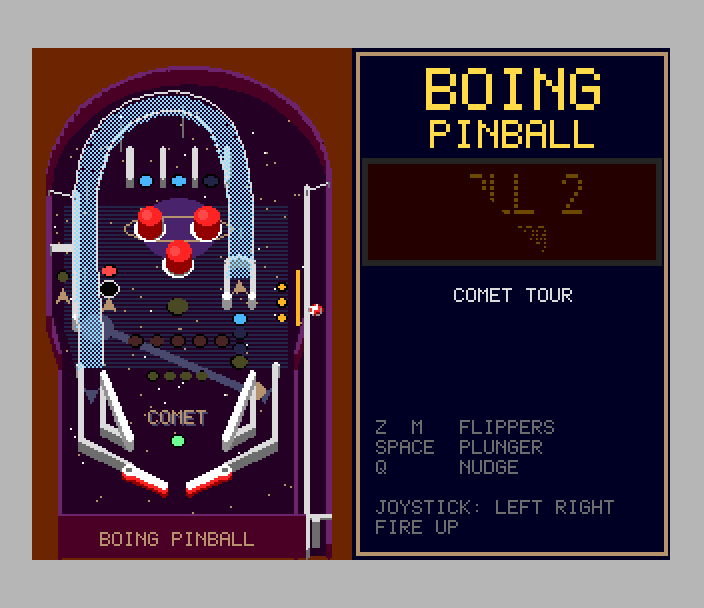
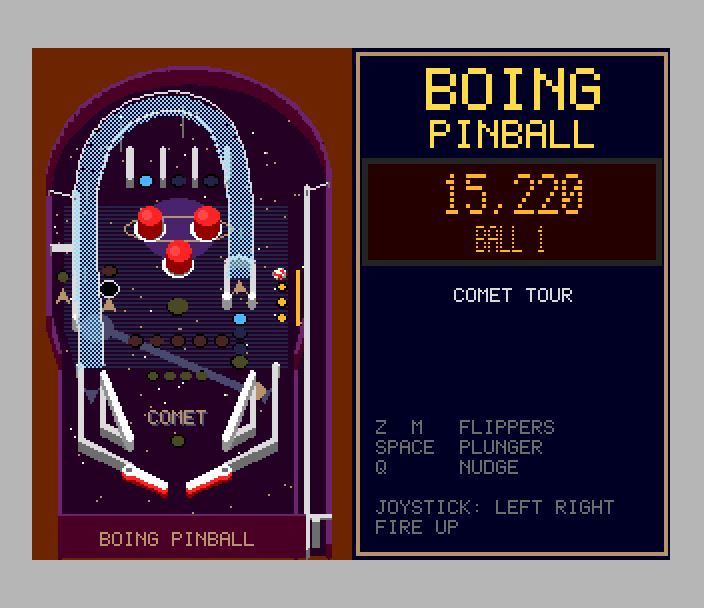
Boing Pinball: the dot-matrix display is never seen half drawn; selftest guards against name-based kills
- the display is drawn per pixel column, only changed columns (signatures
  computed when the text changes, no divisions), at most 16 a frame right
  after the interrupt: 87K T-states at most, done before the beam reaches
  row 58 (it was ~1M T-states, 2 frames, every score change); flashing is
  a palette entry
- ./zx selftest fails on pkill/killall in the harness and scripts (they
  only ever stop their own Popen, after checking the ZRCP port's pid)

diff --git a/projects/boing_pinball/src/front.c b/projects/boing_pinball/src/front.c
@@ -51,27 +51,110 @@ struct {
 
 /* ------------------------------------------------------------ the display */
 
-static char shown_big[24], shown_small[40];
-static uint8_t shown_col;
+/* The original's draw_dmd (one big line, or a big and a small one), drawn
+   a pixel column at a time: each column's dots are compared with what it
+   shows, only changed columns are drawn, at most DMD_BUDGET a frame, right
+   after the frame's interrupt (the beam is above the display then). A
+   score change redraws a few digits; a new message wipes in over a few
+   frames instead of being seen half drawn. Flashing is the palette. */
+#define DMD_BUDGET 16                   /* ~4.4K T-states a column: done before the beam reaches row 58 */
 
-/* the original's draw_dmd: one big line, or a big and a small one */
+typedef struct { const char *s; int16_t x0; uint8_t n, sx, y, sy; } dmd_line;
+static char shown_big[24], shown_small[40];
+static dmd_line lines[2];
+static uint8_t dmd_layout = 0xFF, dmd_cursor = DMD_W, dmd_flash;
+/* what each column shows and should show: line 0's dots | line 1's << 7
+   (initialised, so in the front end's page: Makefile) */
+static uint16_t col_sig[DMD_W] = {0xFFFF}, col_want[DMD_W] = {0};
+
+static void dmd_columns(const dmd_line *l, uint8_t shift);
+
+static void dmd_set_line(dmd_line *l, const char *s, uint8_t sx, uint8_t y, uint8_t sy)
+{
+    l->s = s;
+    l->n = (uint8_t)strlen(s);
+    l->sx = sx;
+    l->x0 = (DMD_W - (int16_t)text_w(s, sx)) / 2;
+    l->y = y;
+    l->sy = sy;
+}
+
 static void dmd(const char *big, const char *small, uint8_t flash)
 {
-    uint8_t col = flash ? P_DMD_MID : P_DMD_ON, sx;
+    uint8_t sx, layout;
     if (!small) small = "";
-    if (col == shown_col && !strcmp(big, shown_big) && !strcmp(small, shown_small)) return;
+    if (flash != dmd_flash) {
+        dmd_flash = flash;
+        pal_set(1, P_DMD_ON, l2_pal_0[flash ? P_DMD_MID : P_DMD_ON]);
+    }
+    if (!strcmp(big, shown_big) && !strcmp(small, shown_small)) return;
     strncpy(shown_big, big, sizeof shown_big - 1);
     strncpy(shown_small, small, sizeof shown_small - 1);
-    shown_col = col;
-    l2rect(DMD_X, DMD_Y, DMD_W, DMD_H, P_DMD_BG);
     if (!small[0]) {
         sx = text_w(big, 3) <= DMD_W ? 3 : text_w(big, 2) <= DMD_W ? 2 : 1;
-        l2text(DMD_X + (DMD_W - text_w(big, sx)) / 2, DMD_Y + (DMD_H - 7 * (sx + 1)) / 2, big, col, sx, sx + 1, 1);
+        dmd_set_line(&lines[0], shown_big, sx, (DMD_H - 7 * (sx + 1)) / 2, sx + 1);
+        lines[1].n = 0;
+        layout = sx;
     } else {
         sx = text_w(big, 2) <= DMD_W ? 2 : 1;
-        l2text(DMD_X + (DMD_W - text_w(big, sx)) / 2, DMD_Y + 5, big, col, sx, 3, 1);
-        l2text(DMD_X + (DMD_W - text_w(small, 1)) / 2, DMD_Y + 31, small, col, 1, 2, 1);
+        dmd_set_line(&lines[0], shown_big, sx, 5, 3);
+        dmd_set_line(&lines[1], shown_small, 1, 31, 2);
+        layout = 4 + sx;
     }
+    if (layout != dmd_layout) {                 /* the dots move: every column is new */
+        uint8_t x;
+        dmd_layout = layout;
+        for (x = 0; x < DMD_W; x++) col_sig[x] = 0xFFFF;
+    }
+    memset(col_want, 0, sizeof col_want);
+    dmd_columns(&lines[0], 0);
+    if (lines[1].n) dmd_columns(&lines[1], 7);
+    dmd_cursor = 0;
+}
+
+/* a line's dots into col_want, column by column (no divisions) */
+static void dmd_columns(const dmd_line *l, uint8_t shift)
+{
+    int16_t x = l->x0;
+    uint8_t k, c, r, j;
+    for (k = 0; k < l->n; k++) {
+        const uint8_t *g = font5_glyph(l->s[k]);
+        for (c = 0; c < 6; c++) {
+            uint16_t bits = 0;
+            if (g && c < 5)
+                for (r = 0; r < 7; r++)
+                    if (g[r] & (0x80 >> c)) bits |= 1 << r;
+            bits <<= shift;
+            for (j = 0; j < l->sx; j++, x++)
+                if (x >= 0 && x < DMD_W) col_want[x] |= bits;
+        }
+    }
+}
+
+static void dots(uint8_t *p, uint8_t bits, uint8_t sy)
+{
+    for (; bits; bits >>= 1, p += sy)
+        if (bits & 1) memset(p, P_DMD_ON, sy - 1);
+}
+
+static void dmd_update(void)
+{
+    uint8_t n = 0;
+    while (dmd_cursor < DMD_W && n < DMD_BUDGET) {
+        uint8_t x = dmd_cursor++, a, b;
+        uint16_t sig = col_want[x];
+        uint8_t *p;
+        if (sig == col_sig[x]) continue;
+        a = sig & 0x7F;
+        b = sig >> 7;
+        col_sig[x] = sig;
+        n++;
+        p = l2w_column(DMD_X + x) + DMD_Y;
+        memset(p, P_DMD_BG, DMD_H);
+        if (a) dots(p + lines[0].y, a, lines[0].sy);
+        if (b) dots(p + lines[1].y, b, lines[1].sy);
+    }
+    if (n) l2w_done();
 }
 
 /* ------------------------------------------------------------ setup */
@@ -248,6 +331,7 @@ static void enter_name(int8_t place)
         }
         if (r & HS_EDIT_TAKEN) ay_sfx(2, 120, 12, 3, 0);
         frame_wait();
+        dmd_update();
         sound_tick();
         input_read();
         r = hs_edit_step(&ed);
@@ -380,10 +464,11 @@ void front_main(void)
         else {
             Dmd d;
             pb_dmd(&g, &d);
-            dmd(d.big, d.small, d.flash && (frame & 4));
+            dmd(d.big, d.small, d.flash && (frame & 4));     /* (drawn after the frame's interrupt) */
         }
         update_probe();
         ticks = frame_wait();
+        dmd_update();                           /* first: the beam is above the display */
         draw_balls();
         draw_flippers();
         draw_plunger();

diff --git a/projects/boing_pinball/README.md b/projects/boing_pinball/README.md
@@ -49,7 +49,10 @@ far too slow at 120 steps a second. So:
   ball), flippers (8 angles, the right one mirrored) and the plunger are
   hardware sprites. Lamps, drop targets, bumper and sling flashes and the
   spinner each own a palette entry. The dot-matrix display is drawn into
-  Layer 2 when its text changes.
+  Layer 2 a pixel column at a time, only the columns that change, at most 16
+  a frame right after the frame's interrupt (before the beam reaches it), so
+  it is never seen half drawn; a new message wipes in over a few frames, a
+  score change redraws a few digits. Its flashing is a palette change.
 - **Memory**: the rules run from bank 20 mapped over the ROM, the table data
   and the front end from 8K pages at 0x4000 / 0x6000 (see `src/main.c`).
 - 28 MHz; the simulation runs 120 steps a second against the 50 Hz frame

diff --git a/CLAUDE.md b/CLAUDE.md
@@ -133,6 +133,9 @@ Details: docs/emulator-harness.md.
   `zx-dev-toolchain-keep` container pins ours, and bin/zx-make rebuilds a missing image.
 - Memory zones: 128K RAM bank N is zone 0 offset N*16384; the Next's RAM page N is
   zone 0 offset 0x40000 + N*8192 (ROMs sit below). Palettes come back as 9-bit RGB333.
+- Stop only our own emulators: the harness kills its own Popen (and checks the ZRCP
+  port answers with its pid before using it); never pkill/killall by name, other
+  agents and the user run ZEsarUX on the same machine (`./zx selftest` checks).
 - Sinclair 2 is keys 1-5 = left, right, down, up, fire (not 5-1).
 
 
